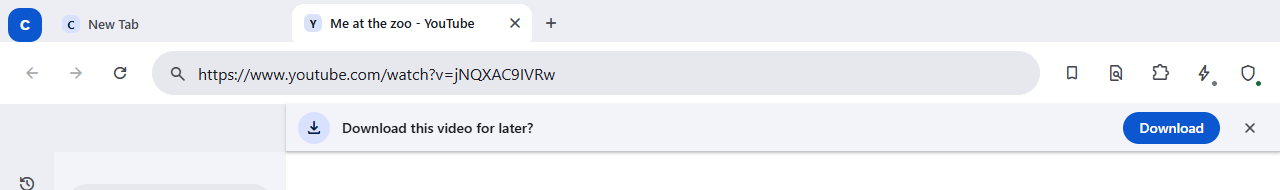
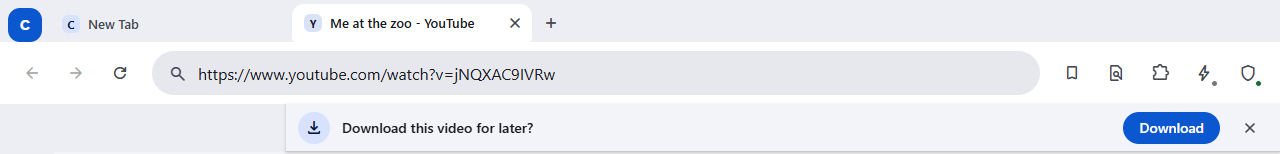
fix: refine YouTube Utilities showcase layout

diff --git a/docs/index.html b/docs/index.html
@@ -930,7 +930,7 @@
                   <img
                     src="./assets/youtube-utilities/download-banner-crop.png"
                     width="1280"
-                    height="190"
+                    height="154"
                     loading="lazy"
                     decoding="async"
                     alt="Chromecraft showing its Download button above a YouTube video."
@@ -953,8 +953,8 @@
                 <div class="youtube-utilities-frame">
                   <img
                     src="./assets/youtube-utilities/gallery-crop.png"
-                    width="1290"
-                    height="720"
+                    width="1360"
+                    height="780"
                     loading="lazy"
                     decoding="async"
                     alt="My Gallery in Chromecraft with a searchable collection of downloaded videos."
@@ -977,8 +977,8 @@
                 <div class="youtube-utilities-frame">
                   <img
                     src="./assets/youtube-utilities/smart-downloads-crop.png"
-                    width="1700"
-                    height="1000"
+                    width="2260"
+                    height="1350"
                     loading="lazy"
                     decoding="async"
                     alt="Smart Downloads controls in Chromecraft for automatic creator downloads and managed storage."
@@ -1031,64 +1031,6 @@
               >
             </div>
           </div>
-        </div>
-      </section>
-
-      <section
-        class="silence-feature"
-        id="silence"
-        aria-labelledby="silence-title"
-      >
-        <div class="silence-stage">
-          <div class="silence-heading">
-            <p class="section-kicker">08 / Quiet on command</p>
-            <h2 id="silence-title" aria-label="Turn. It. OFF.">
-              <span class="silence-word" aria-hidden="true">Turn.</span>
-            </h2>
-          </div>
-
-          <div
-            class="silence-laptop"
-            role="img"
-            aria-label="A laptop overwhelmed by email notifications before quiet mode turns them off"
-          >
-            <img
-              src="./assets/chromecraft-quiet-laptop.png"
-              alt=""
-              width="1536"
-              height="1024"
-            />
-            <div class="silence-screen" aria-hidden="true">
-              <div class="email-count">0 unread</div>
-              <div class="email-stack"></div>
-            </div>
-          </div>
-
-          <div class="silence-switch-row">
-            <span class="material-symbols-rounded" aria-hidden="true"
-              >notifications_active</span
-            >
-            <button
-              class="silence-toggle"
-              type="button"
-              aria-label="Turn on quiet mode"
-              aria-pressed="false"
-            >
-              <span class="silence-toggle-thumb" aria-hidden="true"></span>
-            </button>
-            <span class="material-symbols-rounded" aria-hidden="true"
-              >dark_mode</span
-            >
-          </div>
-
-          <div class="silence-reveal" aria-hidden="true">
-            <h3>Let there be silence.</h3>
-            <p>
-              Turn off all AI in one click. Industry leading ad and popup
-              blocking built in. Remove YouTube ads, and more.
-            </p>
-          </div>
-          <p class="silence-status" role="status" aria-live="polite"></p>
         </div>
       </section>
     </main>

diff --git a/docs/styles.css b/docs/styles.css
@@ -4015,7 +4015,7 @@ h1 {
 }
 
 .youtube-utilities-visuals {
-  aspect-ratio: 1.27;
+  aspect-ratio: 1.36;
   min-width: 0;
   perspective: 1400px;
   position: relative;
@@ -4036,6 +4036,10 @@ h1 {
 }
 
 .youtube-utilities-visual {
+  align-items: stretch;
+  display: flex;
+  flex-direction: column;
+  justify-content: center;
   inset: 0;
   margin: 0;
   opacity: 0;
@@ -4055,16 +4059,18 @@ h1 {
 }
 
 .youtube-utilities-frame {
-  background: #121419;
-  border: 1px solid rgba(20, 22, 27, 0.15);
-  box-shadow: 0 34px 80px rgba(30, 34, 45, 0.2);
-  height: calc(100% - 54px);
+  background: #ffffff;
+  border: 1px solid rgba(20, 22, 27, 0.1);
+  border-radius: 18px;
+  box-shadow: 0 28px 72px rgba(30, 34, 45, 0.16);
   overflow: hidden;
   position: relative;
+  width: 100%;
 }
 
 .youtube-utilities-frame::after {
   border: 1px solid rgba(255, 255, 255, 0.32);
+  border-radius: inherit;
   content: "";
   inset: 0;
   pointer-events: none;
@@ -4074,33 +4080,26 @@ h1 {
 .youtube-utilities-visual img {
   display: block;
   height: 100%;
-  object-fit: cover;
+  object-fit: contain;
   width: 100%;
 }
 
 .youtube-utilities-visual--download .youtube-utilities-frame {
-  align-items: center;
-  background: #111318;
-  display: flex;
-  height: calc(100% - 54px);
-  padding: clamp(22px, 4vw, 62px);
+  aspect-ratio: 1280 / 154;
+  background: #f7f8fc;
 }
 
 .youtube-utilities-visual--download img {
-  box-shadow: 0 24px 52px rgba(0, 0, 0, 0.34);
-  height: auto;
+  object-fit: contain;
 }
 
-.youtube-utilities-visual--gallery img {
-  object-position: center top;
+.youtube-utilities-visual--gallery .youtube-utilities-frame {
+  aspect-ratio: 1360 / 780;
 }
 
 .youtube-utilities-visual--smart .youtube-utilities-frame {
+  aspect-ratio: 2260 / 1350;
   background: #dbe5ff;
-}
-
-.youtube-utilities-visual--smart img {
-  object-position: center top;
 }
 
 .youtube-utilities-visual figcaption {
@@ -4213,7 +4212,7 @@ h1 {
   }
 
   .youtube-utilities-visual--download .youtube-utilities-frame {
-    padding: 12px;
+    aspect-ratio: 1280 / 154;
   }
 }
 
